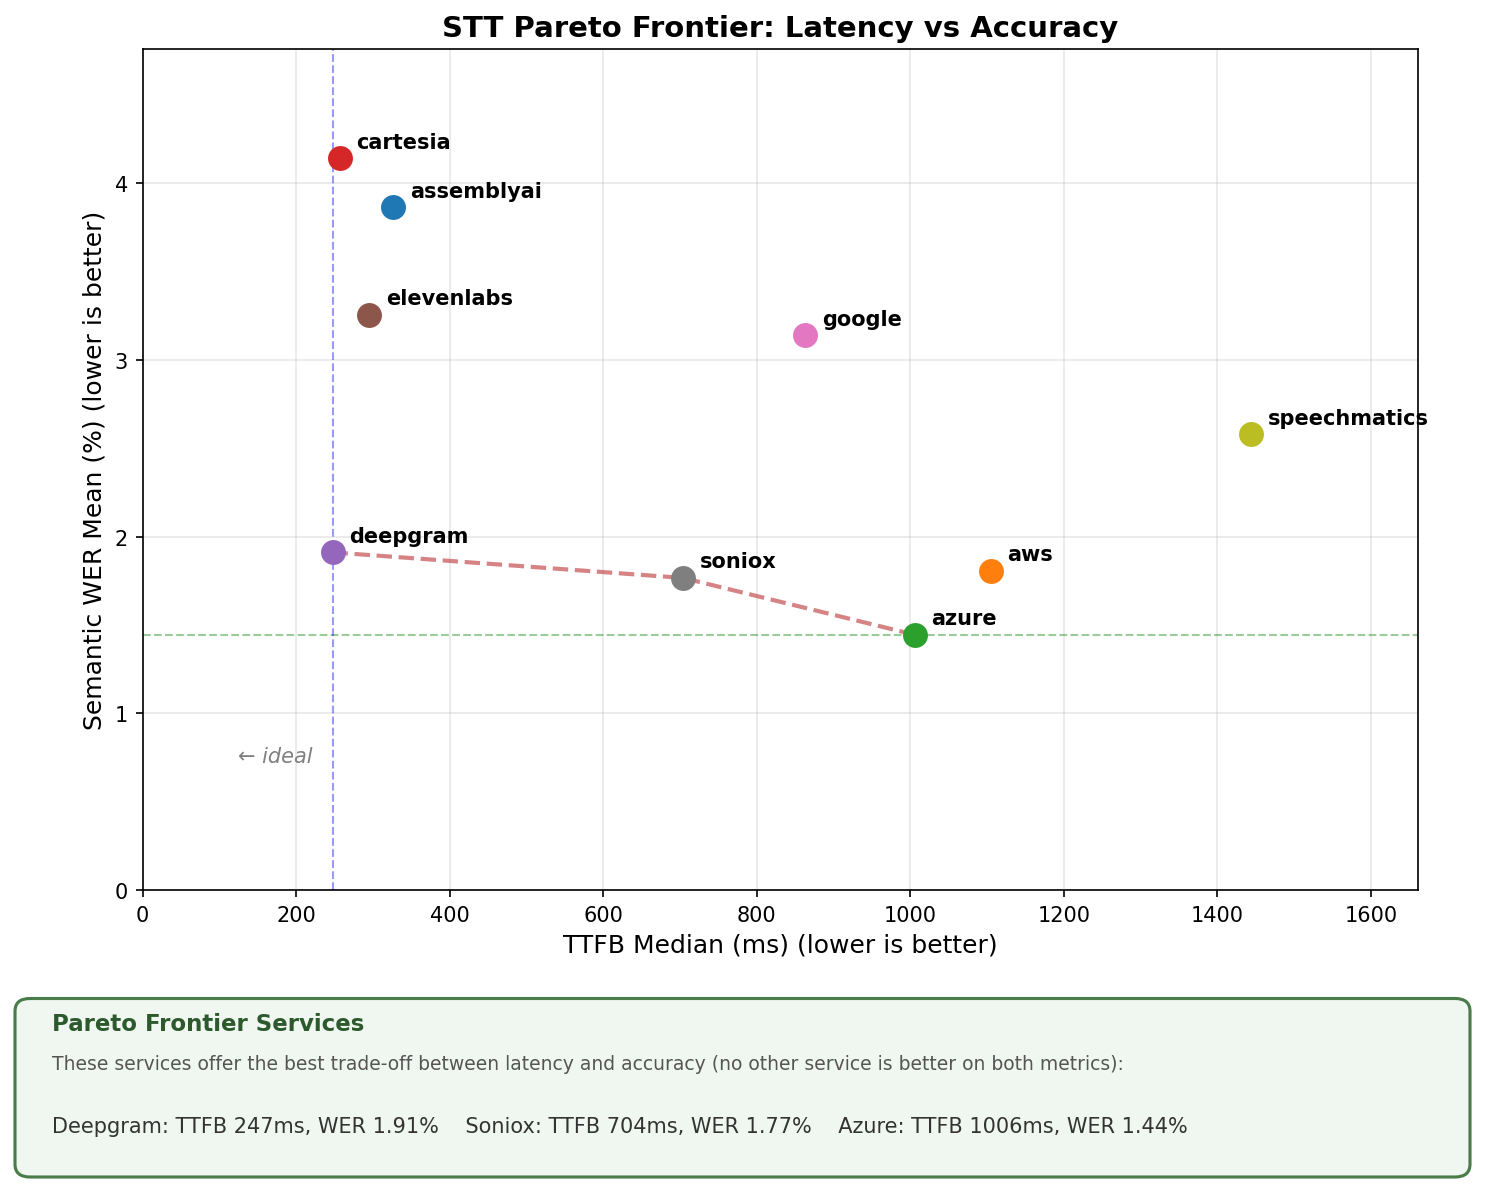
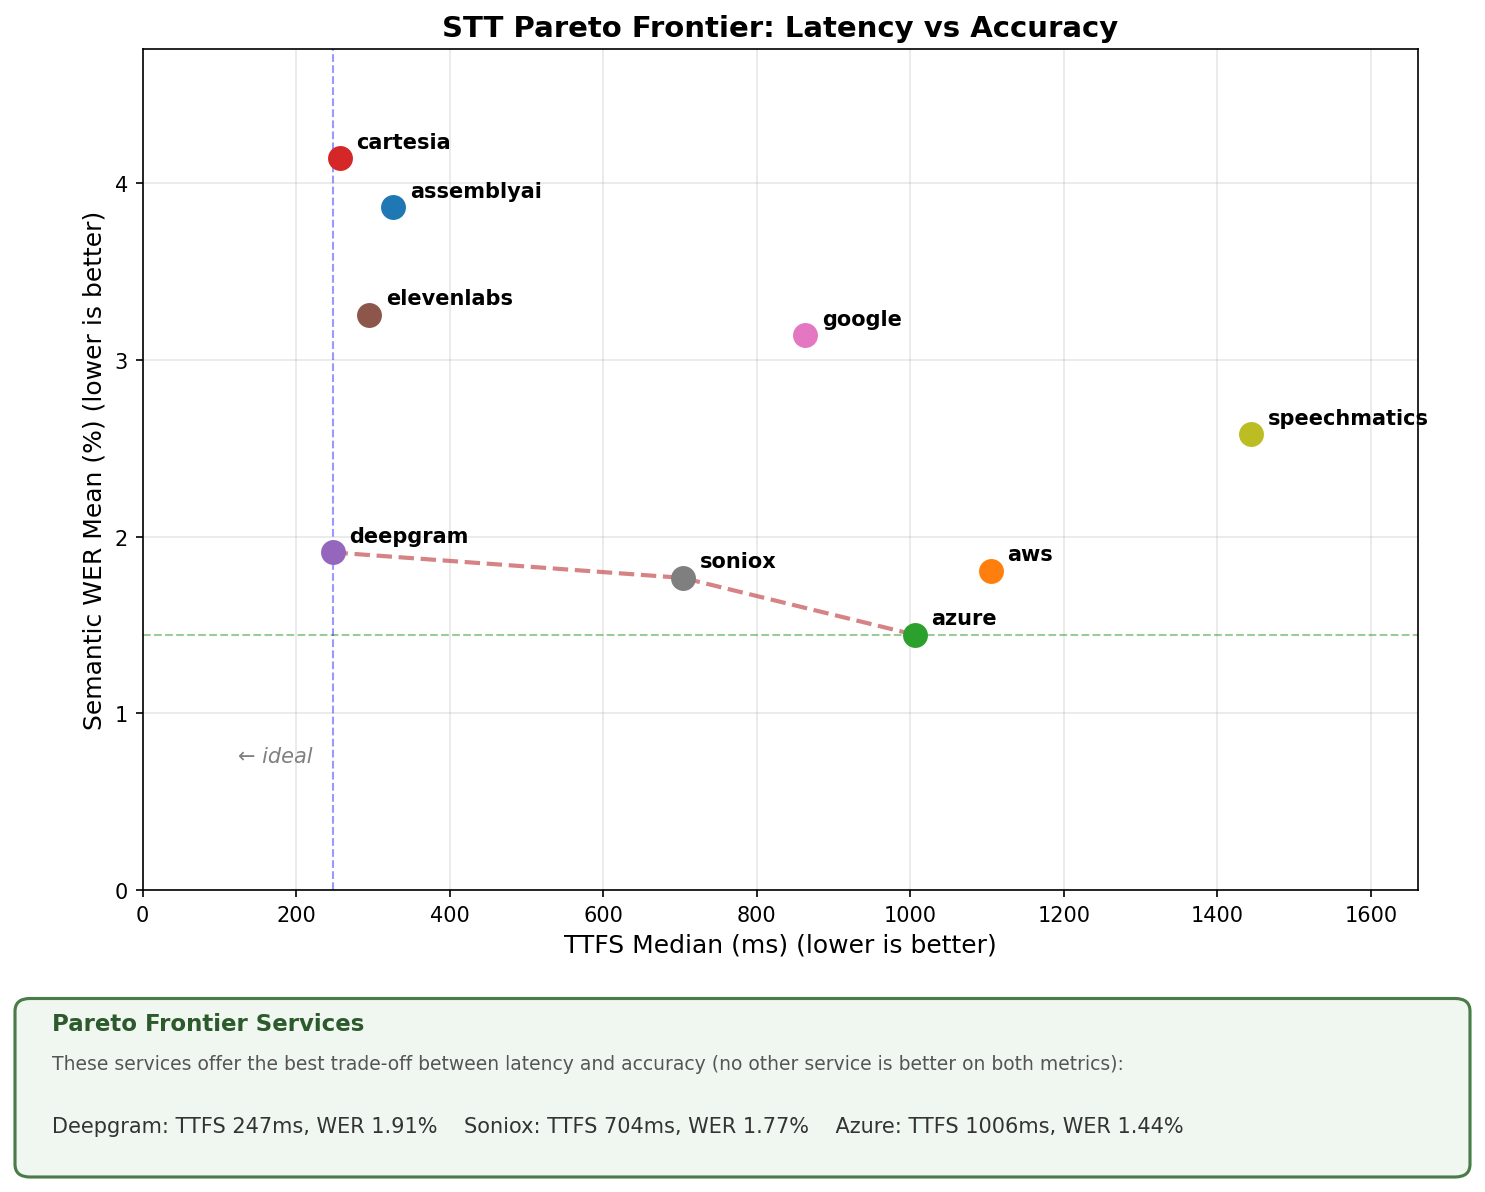
Update to Time to Final Segment

Changed region(s): [[0.1549, 0.9312, 0.8054, 0.9622], [0.4027, 0.776, 0.6815, 0.807]]

diff --git a/scripts/pareto-frontier-plot.py b/scripts/pareto-frontier-plot.py
@@ -1,5 +1,5 @@
 #!/usr/bin/env python3
-"""Generate a Pareto frontier plot of TTFB vs Semantic WER for STT services."""
+"""Generate a Pareto frontier plot of TTFS vs Semantic WER for STT services."""
 
 import argparse
 import asyncio
@@ -40,7 +40,7 @@ def get_data_from_db():
 def plot_pareto_frontier(
     data: dict, output_path: str = "stt_pareto_frontier.png", show: bool = False
 ):
-    """Generate the TTFB vs WER scatter plot with Pareto frontier annotation."""
+    """Generate the TTFS vs WER scatter plot with Pareto frontier annotation."""
     try:
         import matplotlib.pyplot as plt
         from matplotlib.patches import FancyBboxPatch
@@ -75,7 +75,7 @@ def plot_pareto_frontier(
         )
 
     # Configure axes
-    ax.set_xlabel("TTFB Median (ms) (lower is better)", fontsize=12)
+    ax.set_xlabel("TTFS Median (ms) (lower is better)", fontsize=12)
     ax.set_ylabel("Semantic WER Mean (%) (lower is better)", fontsize=12)
     ax.set_title(
         "STT Pareto Frontier: Latency vs Accuracy",
@@ -117,7 +117,7 @@ def plot_pareto_frontier(
         if not is_dominated:
             pareto_optimal.append((name, ttfb, wer))
 
-    # Sort Pareto optimal by TTFB (fastest first)
+    # Sort Pareto optimal by TTFS (fastest first)
     pareto_optimal.sort(key=lambda x: x[1])
 
     # Draw Pareto frontier line connecting optimal points
@@ -178,7 +178,7 @@ def plot_pareto_frontier(
         # List Pareto optimal services with stats
         service_strs = []
         for name, ttfb, wer in pareto_optimal:
-            service_strs.append(f"{name.capitalize()}: TTFB {ttfb:.0f}ms, WER {wer:.2f}%")
+            service_strs.append(f"{name.capitalize()}: TTFS {ttfb:.0f}ms, WER {wer:.2f}%")
 
         # Display services in a wrapped format
         services_text = "    ".join(service_strs)
@@ -201,7 +201,7 @@ def plot_pareto_frontier(
 
 def main():
     parser = argparse.ArgumentParser(
-        description="Generate Pareto frontier plot of TTFB vs Semantic WER for STT services"
+        description="Generate Pareto frontier plot of TTFS vs Semantic WER for STT services"
     )
     parser.add_argument(
         "-o",
@@ -225,7 +225,7 @@ def main():
 
     print(f"Found {len(data)} services with complete metrics")
     for name, metrics in sorted(data.items()):
-        print(f"  {name}: TTFB={metrics['ttfb_median']:.0f}ms, WER={metrics['wer_mean']:.2f}%")
+        print(f"  {name}: TTFS={metrics['ttfb_median']:.0f}ms, WER={metrics['wer_mean']:.2f}%")
 
     print("\nGenerating plot...")
     plot_pareto_frontier(data, args.output, args.show)

diff --git a/src/stt_benchmark/docs/analysis.md b/src/stt_benchmark/docs/analysis.md
@@ -71,7 +71,7 @@ uv run stt-benchmark run --services all
 ```
 
 **What's measured:**
-- **TTFB** - Time from user stops speaking to first transcription byte
+- **TTFS** - Time from user stops speaking to final transcription segment
 - **Transcription** - Full text output for WER calculation
 
 **Typical runtime:** ~1-2 minutes per 100 samples per service (varies by service latency).
@@ -165,7 +165,7 @@ Output:
 ```
                           Service Comparison (Semantic WER)                          
 ┏━━━━━━━━━━━━┳━━━━━━━┳━━━━━━━━━┳━━━━━━━━━━┳━━━━━━━━━━━━┳━━━━━━━━━━━┳━━━━━━━━━━━━━┓
-┃ Service    ┃ Model ┃ Samples ┃ WER Mean ┃ WER Median ┃ TTFB Mean ┃ TTFB Median ┃
+┃ Service    ┃ Model ┃ Samples ┃ WER Mean ┃ WER Median ┃ TTFS Mean ┃ TTFS Median ┃
 ┡━━━━━━━━━━━━╇━━━━━━━╇━━━━━━━━━╇━━━━━━━━━━╇━━━━━━━━━━━━╇━━━━━━━━━━━╇━━━━━━━━━━━━━┩
 │ deepgram   │ -     │     100 │     3.2% │       0.0% │     245ms │       220ms │
 │ groq       │ -     │     100 │     4.8% │       0.0% │     180ms │       165ms │
@@ -237,9 +237,9 @@ uv run stt-benchmark wer --force-recalculate
 
 ## Interpreting Results
 
-### TTFB
+### TTFS (Time To Final Segment)
 
-| TTFB Range | Assessment |
+| TTFS Range | Assessment |
 |------------|------------|
 | < 300ms | Excellent - suitable for real-time voice agents |
 | 300-500ms | Good - acceptable for most applications |
@@ -258,7 +258,7 @@ uv run stt-benchmark wer --force-recalculate
 ### Key Metrics
 
 - **Mean vs Median WER**: High mean with low median indicates outliers (some very bad samples)
-- **P95 TTFB**: Worst-case latency (important for user experience)
+- **P95 TTFS**: Worst-case latency (important for user experience)
 - **Sample count**: Ensure sufficient samples for statistical significance (100+ recommended)
 
 ---
@@ -307,7 +307,7 @@ Some services may time out on long audio. The default timeout is 10 seconds afte
 ```sql
 -- Samples per service
 SELECT service_name, COUNT(*) as count, 
-       AVG(ttfb_seconds) as avg_ttfb
+       AVG(ttfb_seconds) as avg_ttfs
 FROM benchmark_results 
 WHERE error IS NULL
 GROUP BY service_name;

diff --git a/README.md b/README.md
@@ -1,12 +1,12 @@
 # STT Benchmark
 
-A framework for benchmarking Speech-to-Text services with TTFB (Time To First Byte) latency and Semantic WER (Word Error Rate) accuracy measurement.
+A framework for benchmarking Speech-to-Text services with TTFS (Time To Final Segment) latency and Semantic WER (Word Error Rate) accuracy measurement.
 
 ## Results Summary
 
 Benchmark results on 1000 samples from the `pipecat-ai/smart-turn-data-v3.2-train` dataset.
 
-| Service | Transcripts | E2E 0% WER | WER Mean | TTFB Median | TTFB P95 | TTFB P99 |
+| Service | Transcripts | E2E 0% WER | WER Mean | TTFS Median | TTFS P95 | TTFS P99 |
 |---------|-------------|------------|----------|-------------|----------|----------|
 | assemblyai | 99.8% | 65.2% | 3.86% | 326ms | 1476ms | 1936ms |
 | aws | 99.9% | 76.1% | 1.81% | 1105ms | 1513ms | 1924ms |
@@ -32,13 +32,13 @@ The Pareto frontier shows services that offer the best trade-off between latency
 | **E2E 0% WER** | Perfect transcriptions (0% error) out of total benchmark runs |
 | **WER Mean** | Average semantic word error rate across all samples |
 | **WER P95** | 95th percentile WER - worst 5% of samples have WER above this |
-| **TTFB Median** | Median time from user stops speaking to first transcription byte |
-| **TTFB P95** | 95th percentile TTFB - worst 5% of samples have latency above this |
-| **TTFB P99** | 99th percentile TTFB - worst 1% of samples have latency above this |
+| **TTFS Median** | Median time from user stops speaking to final transcription segment |
+| **TTFS P95** | 95th percentile TTFS - worst 5% of samples have latency above this |
+| **TTFS P99** | 99th percentile TTFS - worst 1% of samples have latency above this |
 
 > **Semantic WER** measures only transcription errors that would impact an LLM agent's understanding. Punctuation, contractions, filler words, and equivalent phrasings are ignored.
 
-> **TTFB** is measured from when the user stops speaking to when the first transcription byte is received. For streaming voice agents, lower TTFB means faster response times.
+> **TTFS (Time To Final Segment)** is measured from when the user stops speaking to when the final transcription segment is received. For streaming voice agents, lower TTFS means faster response times.
 
 ## Quick Start
 

diff --git a/src/stt_benchmark/docs/cli.md b/src/stt_benchmark/docs/cli.md
@@ -310,7 +310,7 @@ uv run stt-benchmark report --service deepgram --output ./reports
 ```
                           Service Comparison (Semantic WER)                          
 ┏━━━━━━━━━━━━┳━━━━━━━┳━━━━━━━━━┳━━━━━━━━━━┳━━━━━━━━━━━━┳━━━━━━━━━━━┳━━━━━━━━━━━━━┓
-┃ Service    ┃ Model ┃ Samples ┃ WER Mean ┃ WER Median ┃ TTFB Mean ┃ TTFB Median ┃
+┃ Service    ┃ Model ┃ Samples ┃ WER Mean ┃ WER Median ┃ TTFS Mean ┃ TTFS Median ┃
 ┡━━━━━━━━━━━━╇━━━━━━━╇━━━━━━━━━╇━━━━━━━━━━╇━━━━━━━━━━━━╇━━━━━━━━━━━╇━━━━━━━━━━━━━┩
 │ deepgram   │ -     │     500 │     3.2% │       0.0% │     245ms │       220ms │
 │ assemblyai │ -     │     500 │     4.1% │       0.0% │     380ms │       324ms │
